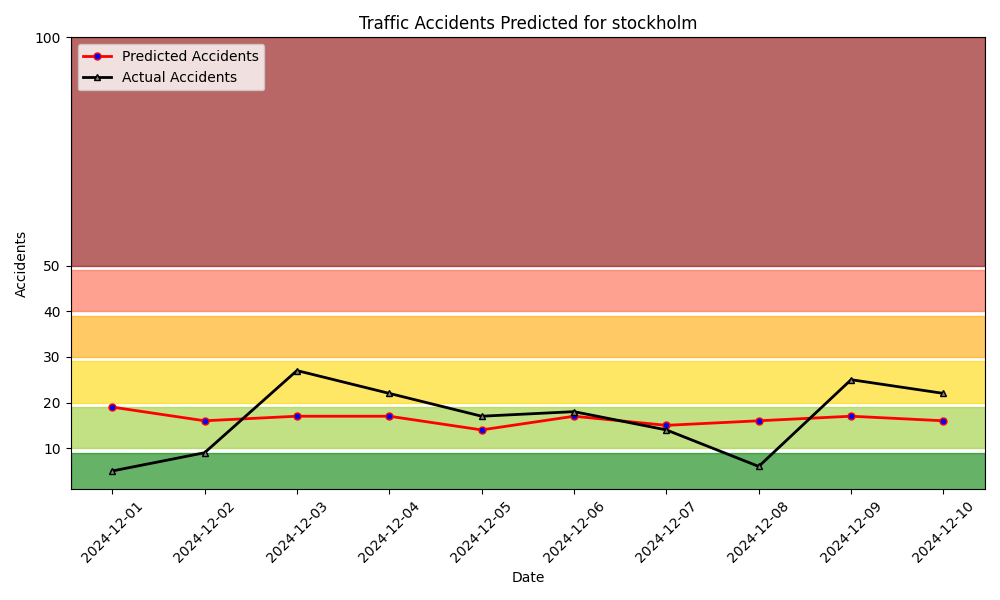
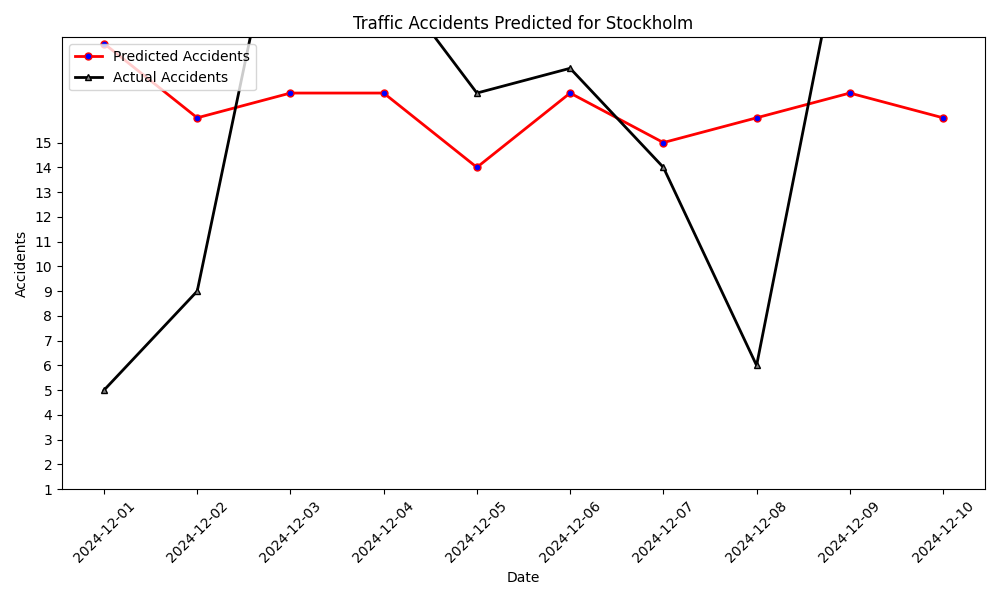
fixes

diff --git a/index.html b/index.html
@@ -12,5 +12,8 @@
     <div>
         <img src="project/accidents_model/images/feature_importance.png" alt="Feature Importance Image">
     </div>
+    <div>
+        <img src="data/forecast_table.png" alt="Forecast Table Image">
+    </div>
 </body>
 </html>

diff --git a/project/functions/util.py b/project/functions/util.py
@@ -251,35 +251,22 @@ def backfill_predictions_for_monitoring(weather_fg, air_quality_df, monitor_fg, 
     monitor_fg.insert(df, write_options={"wait_for_job": True})
     return hindcast_df
 
-def traf_plot_accidents_forecast(country: str, df: pd.DataFrame, file_path: str, hindcast=False):
+def traf_plot_accidents_forecast(city: str, df: pd.DataFrame, file_path: str, hindcast=False):
     fig, ax = plt.subplots(figsize=(10, 6))
 
     day = pd.to_datetime(df['date']).dt.date
     # Plot each column separately in matplotlib
     ax.plot(day, df['predicted_accidents'], label='Predicted Accidents', color='red', linewidth=2, marker='o', markersize=5, markerfacecolor='blue')
 
-    # Set the y-axis to a logarithmic scale
-    # ax.set_yscale('log')
-    # ax.set_yticks([0, 10, 25, 50, 100, 250, 500])
-    ax.set_yticks([0, 10, 20, 30, 40, 50, 100])
+
+    ax.set_yticks([0, 1, 2, 3, 4, 5, 6, 7, 8, 9, 10, 11, 12, 13, 14, 15])
     ax.get_yaxis().set_major_formatter(plt.ScalarFormatter())
     ax.set_ylim(bottom=1)
 
     # Set the labels and title
     ax.set_xlabel('Date')
-    ax.set_title(f"Traffic Accidents Predicted for {country}")
+    ax.set_title(f"Traffic Accidents Predicted for {city}")
     ax.set_ylabel('Accidents')
-
-    colors = ['green', 'yellowgreen', 'gold', 'orange', 'tomato', 'darkred']
-    # labels = ['Good', 'Moderate', 'Unhealthy for Some', 'Unhealthy', 'Very Unhealthy', 'Hazardous']
-    # ranges = [(0, 49), (50, 99), (100, 149), (150, 199), (200, 299), (300, 500)]
-    ranges = [(0, 9), (10, 19), (20, 29), (30, 39), (40, 49), (50, 100)]
-    for color, (start, end) in zip(colors, ranges):
-        ax.axhspan(start, end, color=color, alpha=0.6)
-
-    # Add a legend for the different Air Quality Categories
-    # patches = [Patch(color=colors[i], label=f"{labels[i]}: {ranges[i][0]}-{ranges[i][1]}") for i in range(len(colors))]
-    # legend1 = ax.legend(handles=patches, loc='upper right', title="Accident Categories", fontsize='x-small')
 
     # Aim for ~10 annotated values on x-axis, will work for both forecasts ans hindcasts
     if len(df.index) > 11:
@@ -301,6 +288,7 @@ def traf_plot_accidents_forecast(country: str, df: pd.DataFrame, file_path: str,
     return plt
 
 def plot_accidents_forecast(city: str, df: pd.DataFrame, file_path: str, hindcast=False):
+
     fig, ax = plt.subplots(figsize=(10, 6))
 
     day = pd.to_datetime(df['date']).dt.date
@@ -334,3 +322,35 @@ def plot_accidents_forecast(city: str, df: pd.DataFrame, file_path: str, hindcas
     # Save the figure
     plt.savefig(file_path)
     return plt
+
+def plot_accidents_table(city: str, df: pd.DataFrame, file_path: str, hindcast=False):
+        fig, ax = plt.subplots(figsize=(10, 6))
+
+        # Create table data
+        table_data = {
+            "Date": pd.to_datetime(df['date']).dt.date,
+            "Predicted Accidents": df['predicted_accidents']
+        }
+
+        if hindcast:
+            table_data["Actual Accidents"] = df['accidents']
+
+        # Convert the dictionary to a DataFrame
+        table_df = pd.DataFrame(table_data)
+
+        # Hide axes
+        ax.xaxis.set_visible(False)
+        ax.yaxis.set_visible(False)
+        ax.set_frame_on(False)
+
+        # Create the table
+        table = ax.table(cellText=table_df.values, colLabels=table_df.columns, cellLoc='center', loc='center')
+
+        table.auto_set_font_size(False)
+        table.set_fontsize(10)
+        table.scale(1.2, 1.2)
+
+        # Save the table as an image
+        plt.savefig(file_path, bbox_inches='tight')
+        plt.close(fig)
+        return plt
